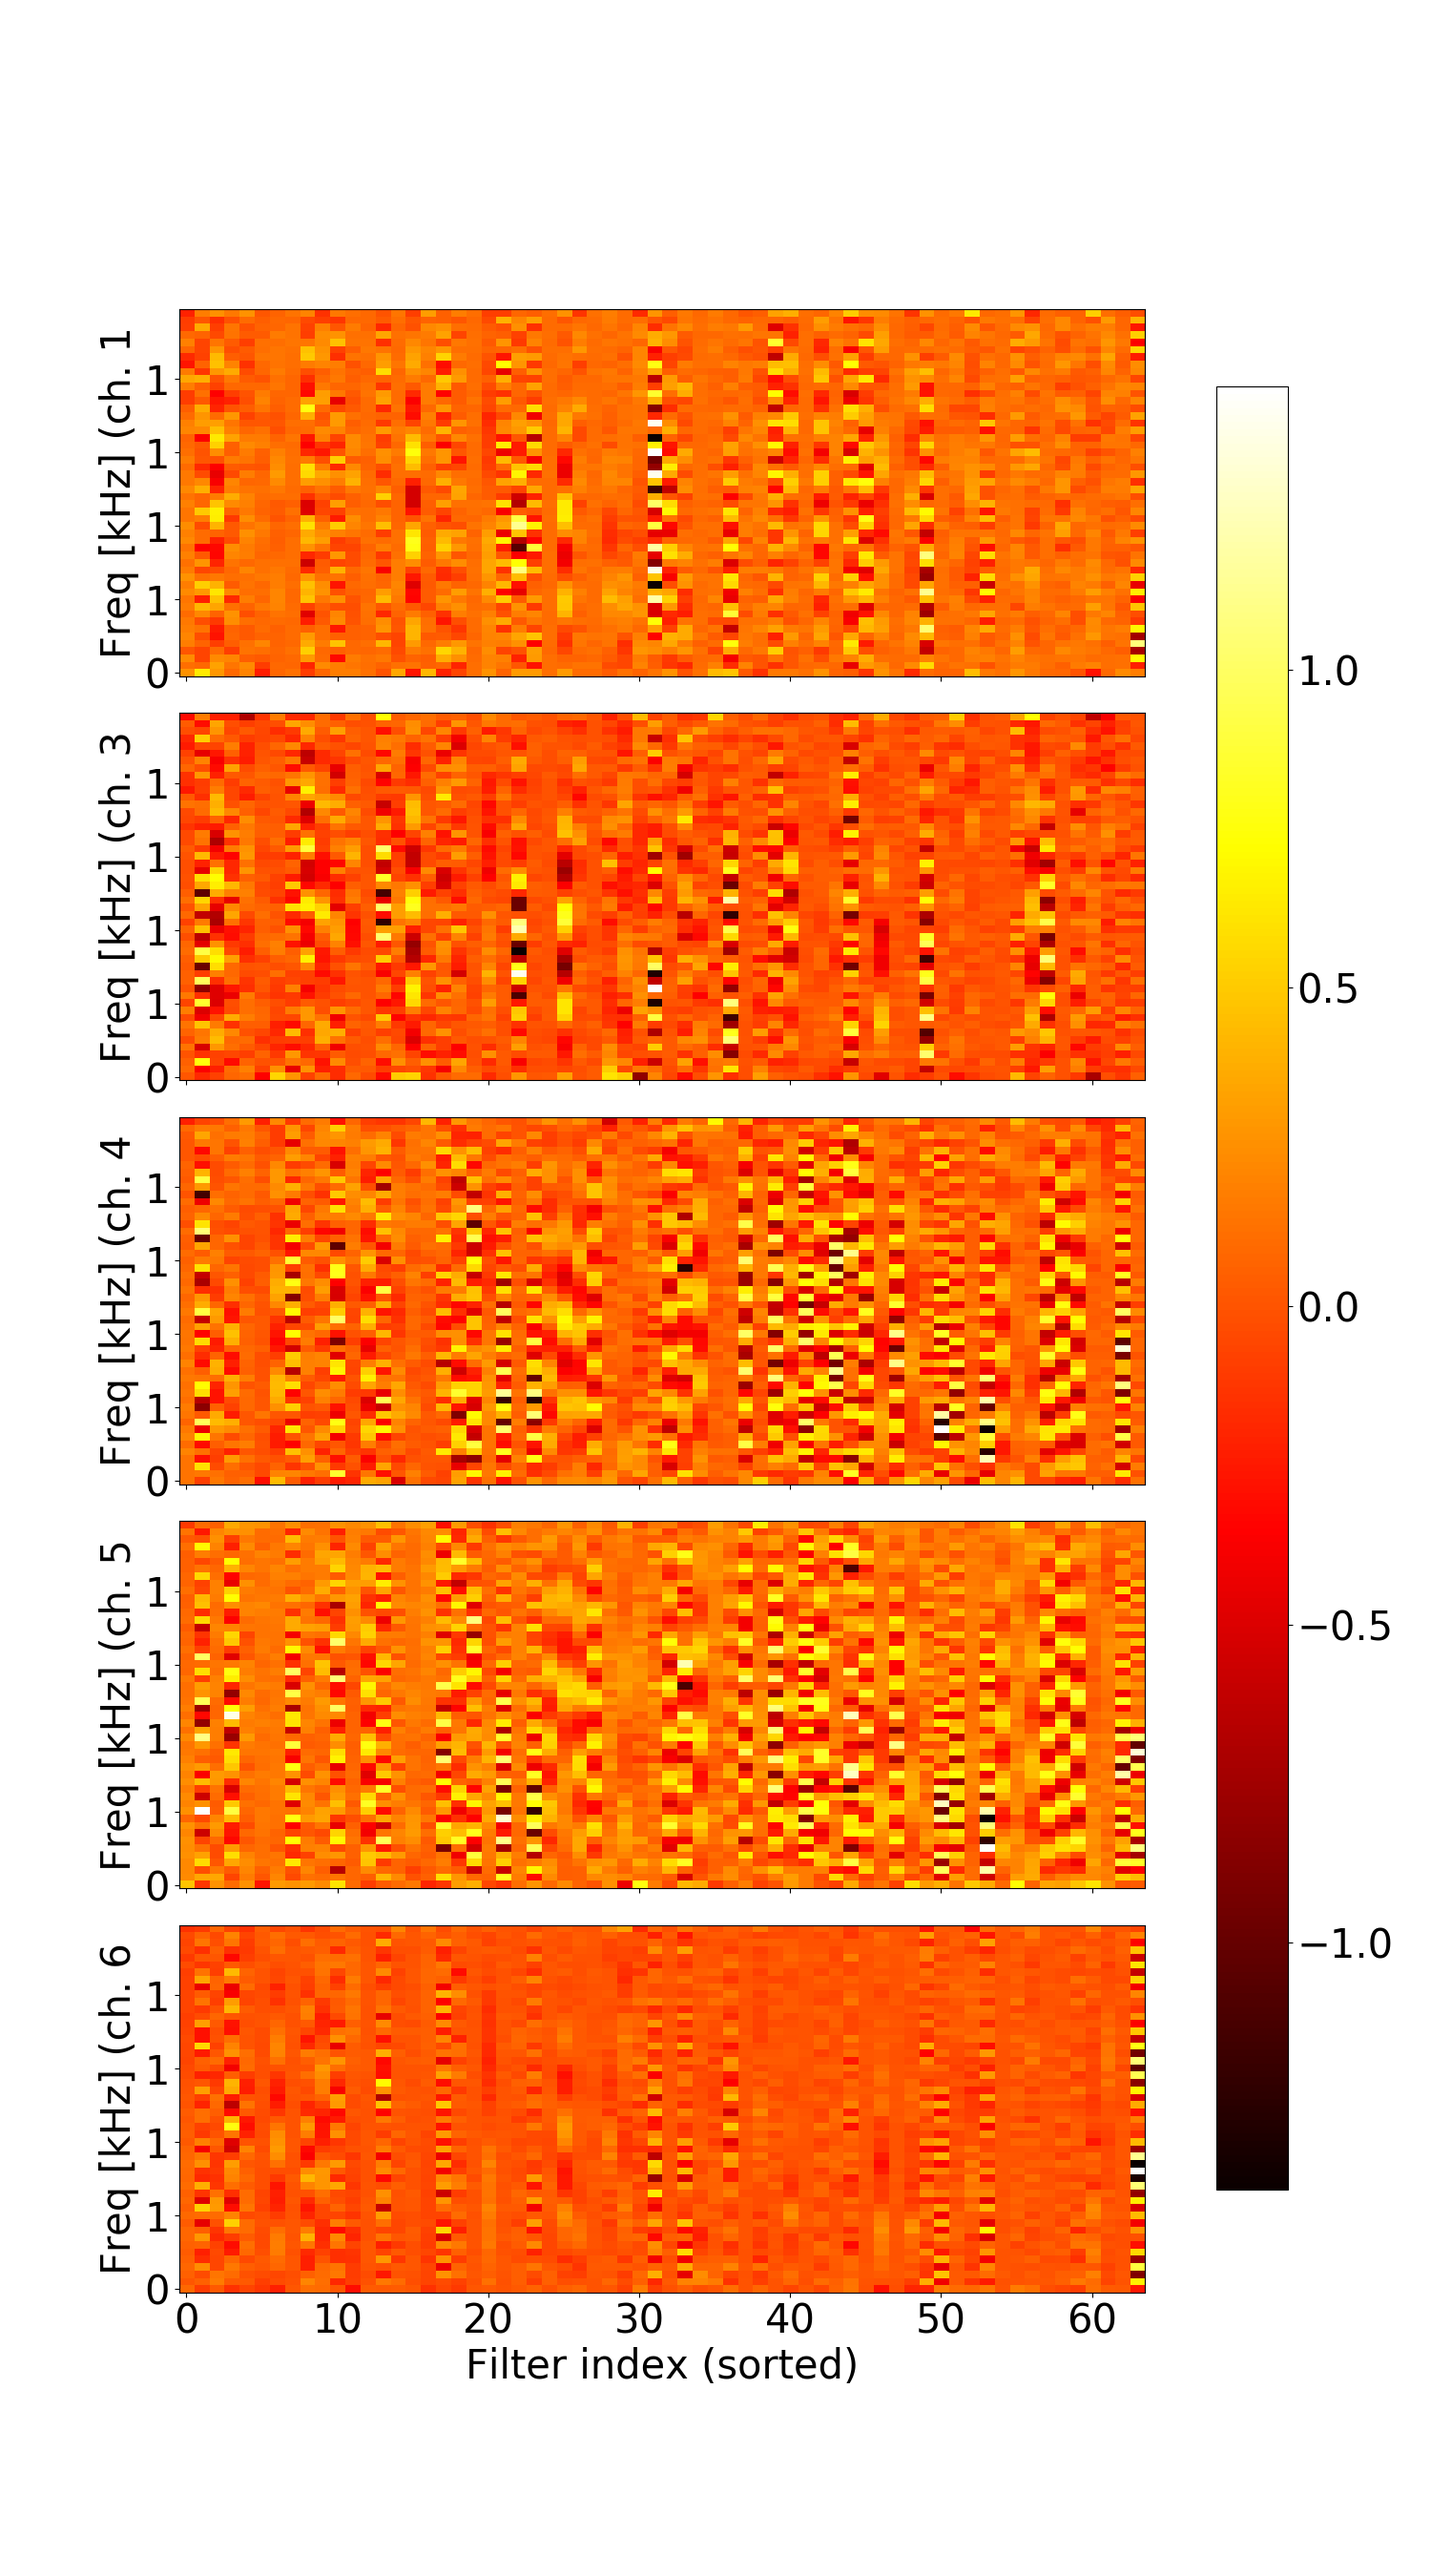
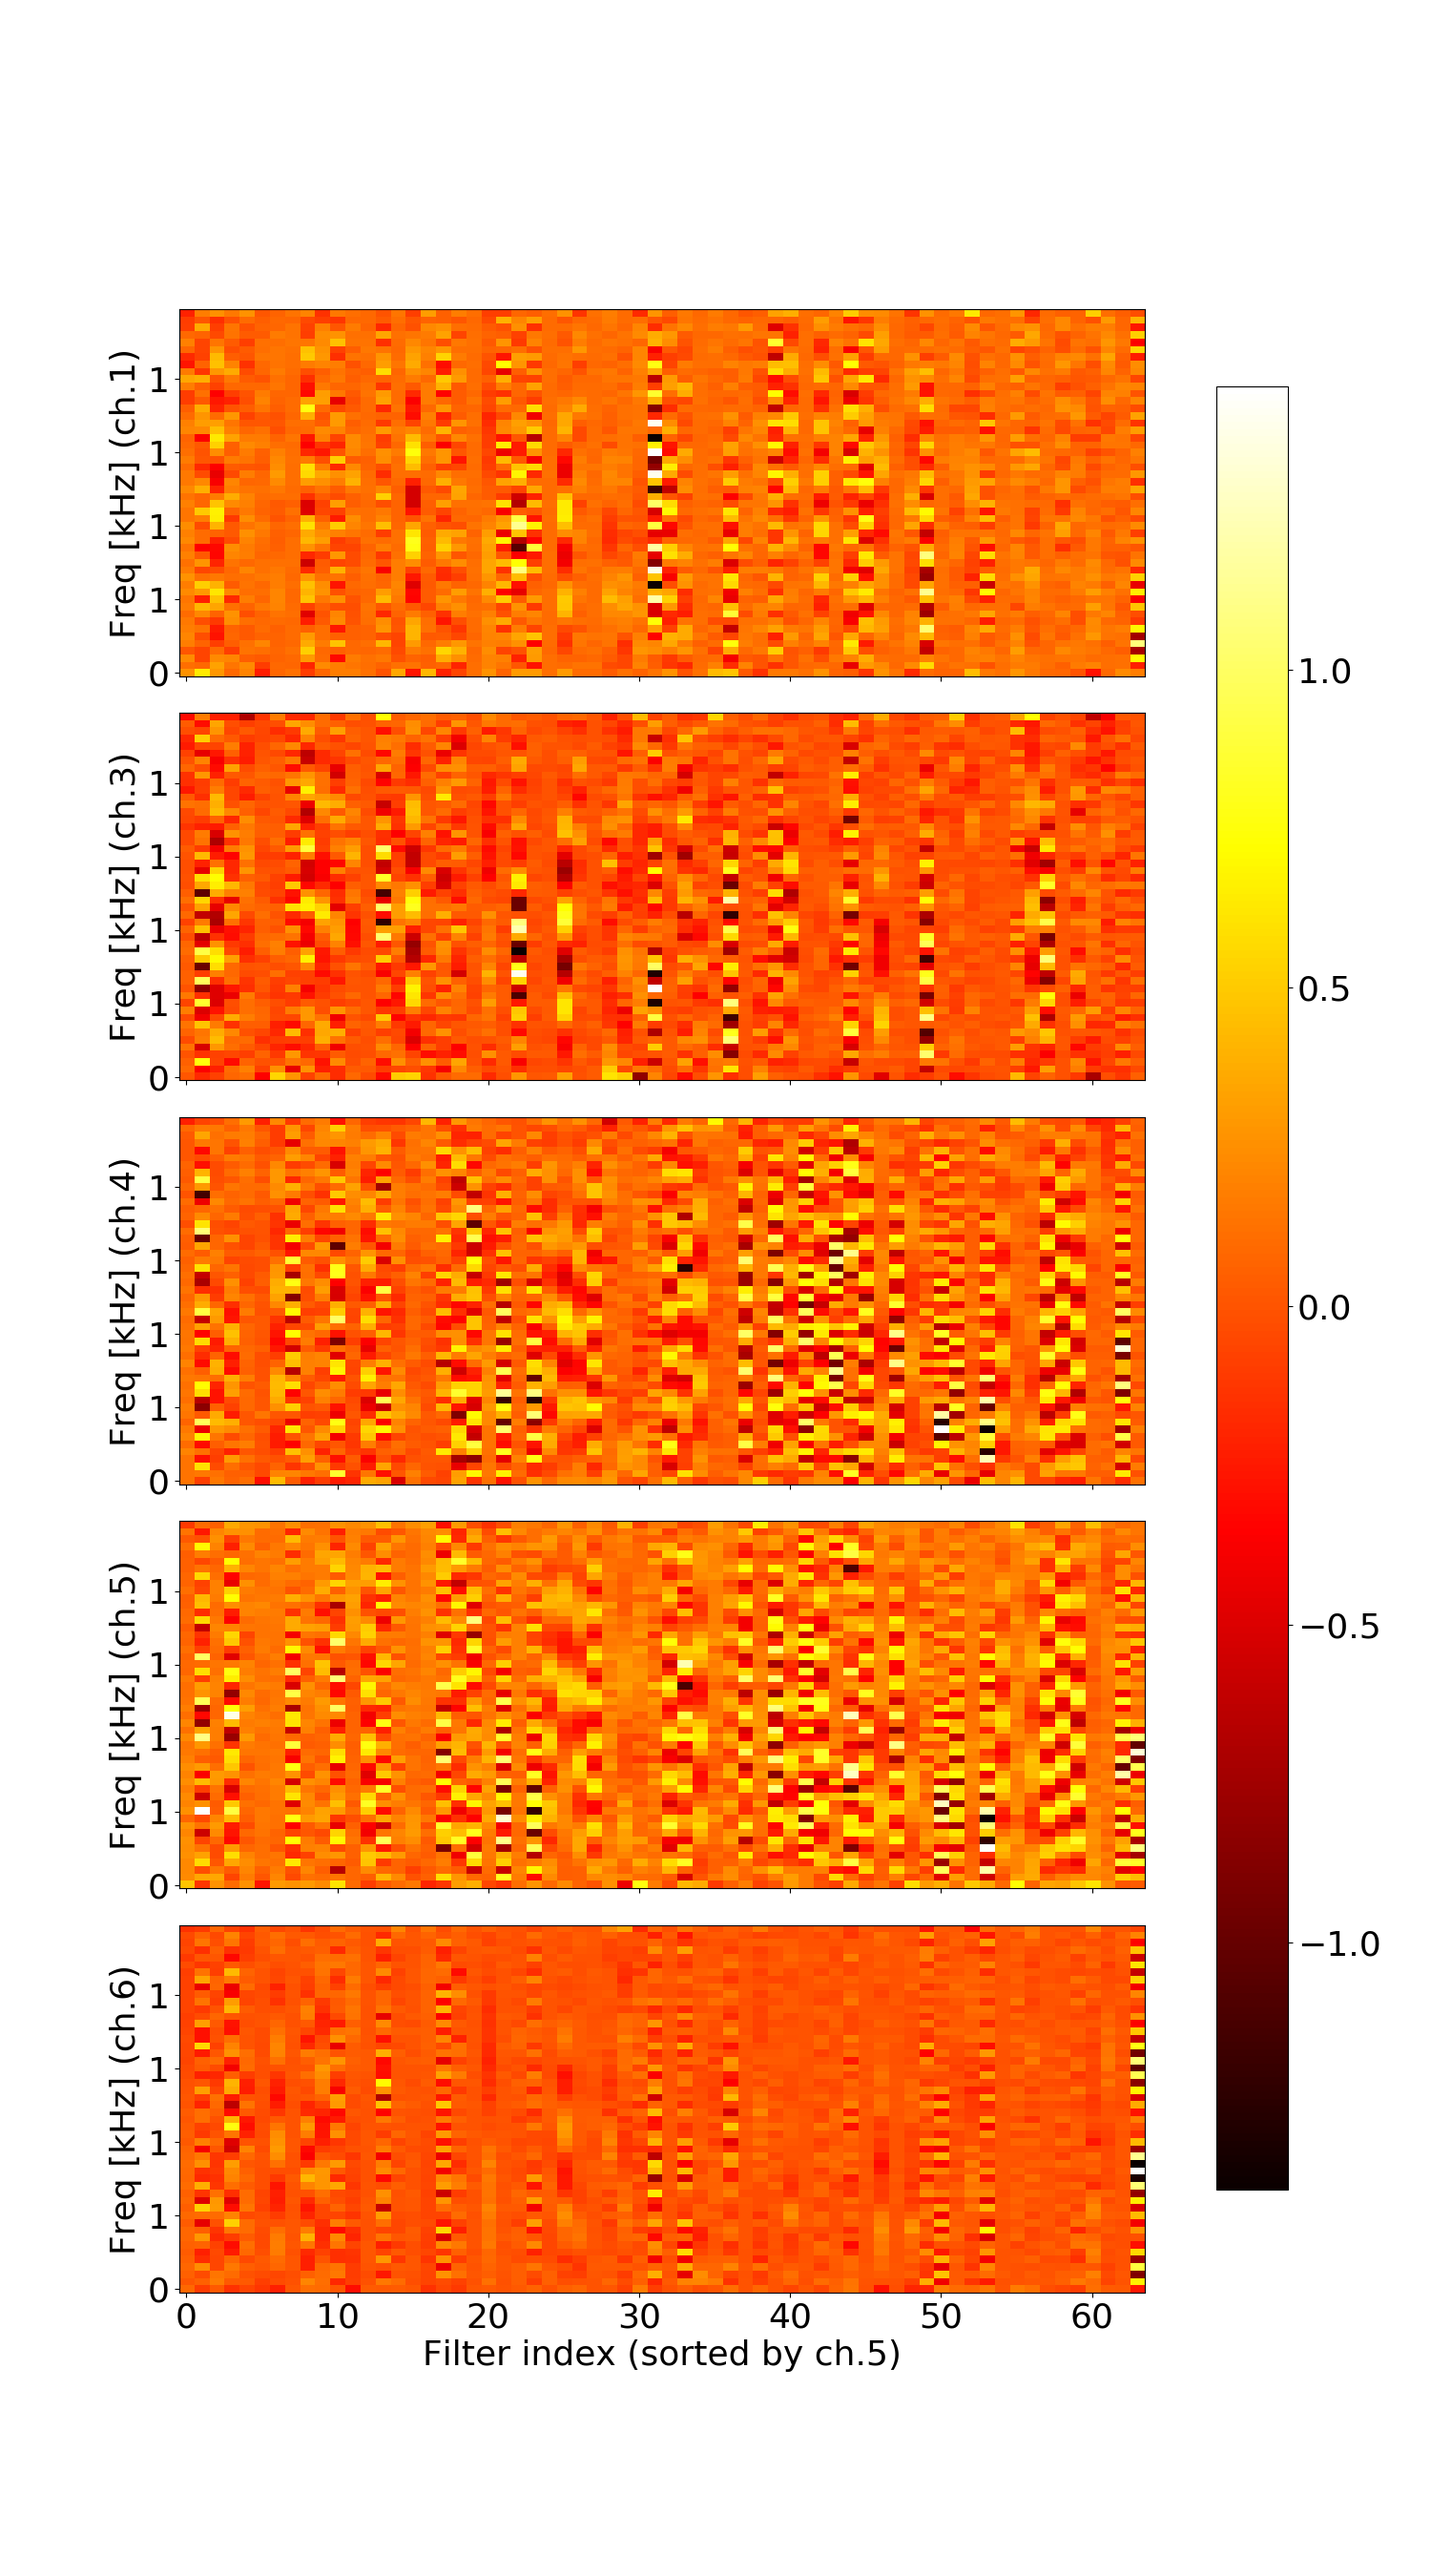
up

diff --git a/returnnTfNetworkLayerPlotter.py b/returnnTfNetworkLayerPlotter.py
@@ -502,7 +502,7 @@ class Plotter(object):
         def format_func(value, tick_number):
             return r"{}".format(int(np.ceil(value/1000)))
         
-        plt.rcParams.update({'font.size': 30})
+        plt.rcParams.update({'font.size': 26})
         fig, axs = plt.subplots(self.layer.dimInput, len(self.epochRangeToPlot), figsize=self.figSize, sharex=True, sharey=True)
         doAnalytical = self.plottingConfigs['analytical']
         analyticalSignalExtension='_analytical_signal' if doAnalytical else ''
@@ -528,9 +528,9 @@ class Plotter(object):
                     im.set_clim(colorInterval[0], colorInterval[1])
                 axs[dimInputIdx][epochRangeIdx].yaxis.set_major_locator(plt.MaxNLocator(5))
                 axs[dimInputIdx][epochRangeIdx].yaxis.set_major_formatter(plt.FuncFormatter(format_func))
-                axs[dimInputIdx][epochRangeIdx].set_ylabel('Freq [kHz] (ch. ' + channels[dimInputIdx])
+                axs[dimInputIdx][epochRangeIdx].set_ylabel('Freq [kHz] (ch.' + channels[dimInputIdx] + ')')
 #                axs[dimInputIdx][epochRangeIdx].set_ylabel(self.layer.domain + '_for_channel_' + str(dimInputIdx))
-            axs[-1][epochRangeIdx].set_xlabel('Filter index (sorted)')
+            axs[-1][epochRangeIdx].set_xlabel('Filter index (sorted by ch.5)')
 #                axs[dimInputIdx][epochRangeIdx].set_xlabel('filterIdx_' + mode + '_for epoch' + '_' + '%03d' % (self.epochRangeToPlot[epochRangeIdx],))
 
         fig.subplots_adjust(hspace=0.1)
